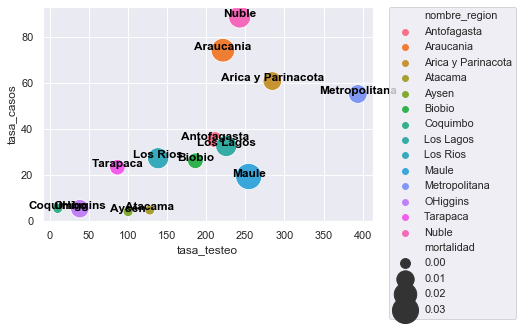
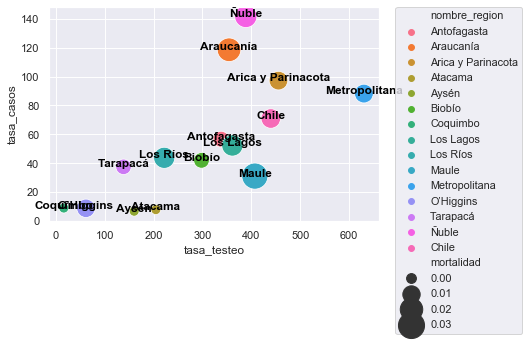
analisis PCR

diff --git a/herramientas/analisis_tests_PCR/analisis_test_PCR.py b/herramientas/analisis_tests_PCR/analisis_test_PCR.py
@@ -132,36 +132,87 @@ data = pd.concat([data, row_chile])
 
 
 data['tasa_casos']=data.casos_totales/(data.pobla/10**5)
-data['tasa_fallecidos']=data.fallecidos_totales/(data.pobla/10**5)
-data['tasa_testeo']=data.pcr_numero/(data.pobla/10**5)
+data['tasa_fallecidos']=data.fallecidos_totales/(data.pobla/10**6)
+data['tasa_testeo']=data.pcr_numero/(data.pobla/10**6)
 data['mortalidad']=data.fallecidos_totales/(data.casos_totales)
 
 
+data=data.rename(columns={'tasa_fallecidos':'Tasa Fallecidos'})
 datascatter=data[data.id_region!=12]
 x="tasa_testeo"
 y="tasa_casos"
 nombres='nombre_region'
-size='mortalidad'
+size='Tasa Fallecidos'
 import matplotlib.pyplot as plt
 import seaborn as sns
-sns.set()
-fig, ax = plt.subplots()
+sns.set(font_scale=2)
+sns.set_style("white")#,)
+
+alto=9
+ancho=9
+fig = plt.figure()
+#import matplotlib.gridspec as gridspec
+#fig=plt.figure(figsize=(ancho, alto))
+#gs1 = gridspec.GridSpec(1, 1)
+#ax = fig.add_subplot(gs1[0])
+
+fig, ax = plt.subplots(figsize=(ancho, alto))
+#fig, ax = plt.subplots()
 g =sns.scatterplot(x=x, y=y,
                    hue=nombres,
                    size=size,
-                   sizes=(100, 700),
+                   sizes=(400, 1500),
                    data=datascatter,ax=ax);
-plt.legend(bbox_to_anchor=(1.05, 1), loc=2, borderaxespad=0.)
+#plt.legend(bbox_to_anchor=(1.05, 1), loc=2, borderaxespad=0.)
 #ax.set_xlim(0,0.010)
 
 #For each point, we add a text inside the bubble
 for line in datascatter.index:#range(0,datascatter.shape[0]):
-     ax.text(datascatter[x][line], datascatter[y][line], datascatter[nombres][line], horizontalalignment='center', size='medium', color='black', weight='semibold')
+    delta=0;
+    if ((datascatter[nombres][line]=='Coquimbo') or 
+    (datascatter[nombres][line]=='Atacama') or
+    (datascatter[nombres][line]=='Los Ríos') or
+    (datascatter[nombres][line]=='Antofagasta')):
+        delta=8;    
+    ax.text(datascatter[x][line],
+             datascatter[y][line]+7+delta,
+             datascatter[nombres][line],
+             horizontalalignment='center',
+             size='small',
+             color='black')
+             #weight='semibold')
 
 
+h,l = ax.get_legend_handles_labels()
+size_lgd = plt.legend(h[-5:], l[-5:], loc='lower right',#, borderpad=1.6,# prop={'size': 20},
+                     # bbox_to_anchor=(0.5,-0.45), 
+                      fancybox=True,# shadow=True,
+                      #bbox_to_anchor=(1.05, 1), loc=2, borderaxespad=0.)
+                      bbox_to_anchor=(1.3, 0),
+                      labelspacing=0.5,#,borderpad=-4, 
+            #frameon=True,
+            framealpha=0,#title="popdensity",
+            numpoints=1)#, loc=4)#, numpoints=4)
+plt.xlabel("Exámenes PCR por cada 1.000.000 de habitantes")
+plt.ylabel("Contagios por cada 100.000 habitantes")
+plt.title('Exámenes, Contagiados y Muertes por Región',pad=35)
+margen=0.03
+#gs1.tight_layout(fig, rect=[0+margen, 0, 1, 0.8])
+#plt.tight_layout(rect=[0+margen, 0+margen, 0.5, 1-margen])
+sns.despine()
 plt.show()
 
 
+
+
+
+
+#h, l = plt.gca().get_legend_handles_labels()
+#plt.legend(h[1:], l[1:], labelspacing=1.2, title="petal_width", borderpad=1, 
+#            frameon=True, framealpha=0.6, edgecolor="k", facecolor="w")
+
+ 
+# SIZE LEGEND (LAST 5 ITEMS)
 
 
 
@@ -197,3 +248,30 @@ ax.set_ylim(-2, 18)
 #For each point, we add a text inside the bubble
 for line in range(0,df.shape[0]):
      ax.text(df.x[line], df.y[line], df.group[line], horizontalalignment='center', size='medium', color='black', weight='semibold')
+
+
+
+
+
+import seaborn as sns
+import matplotlib.pyplot as plt
+iris = sns.load_dataset("iris")
+
+plt.scatter(iris.sepal_width, iris.sepal_length, 
+            c = iris.petal_length, s=(iris.petal_width**2)*60, cmap="viridis")
+ax = plt.gca()
+
+#plt.colorbar(label="petal_length")
+plt.xlabel("sepal_width")
+plt.ylabel("sepal_length")
+
+#make a legend:
+pws = [0.5, 1, 1.5, 2., 2.5]
+for pw in pws:
+    plt.scatter([], [], s=(pw**2)*60, c="k",label=str(pw))
+
+h, l = plt.gca().get_legend_handles_labels()
+plt.legend(h[1:], l[1:], labelspacing=1.2, title="petal_width", borderpad=1, 
+            frameon=True, framealpha=0.6, edgecolor="k", facecolor="w")
+
+plt.show()
